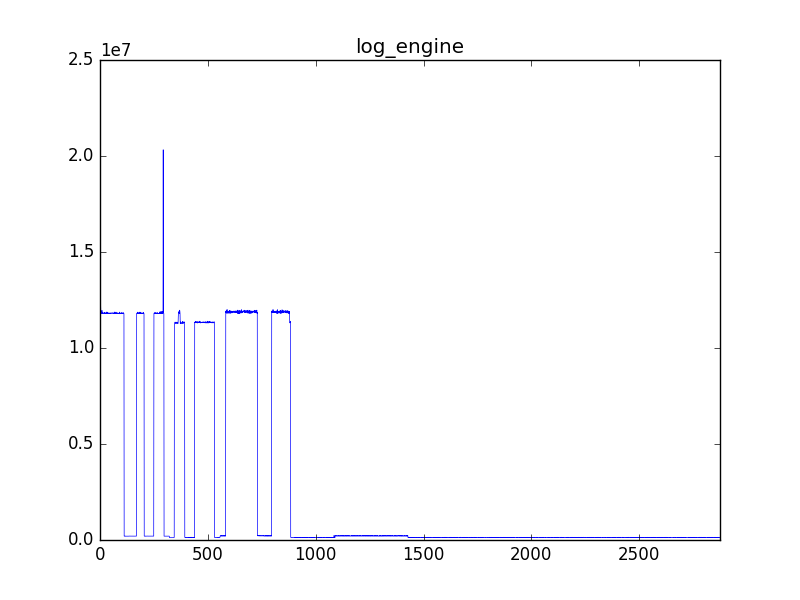
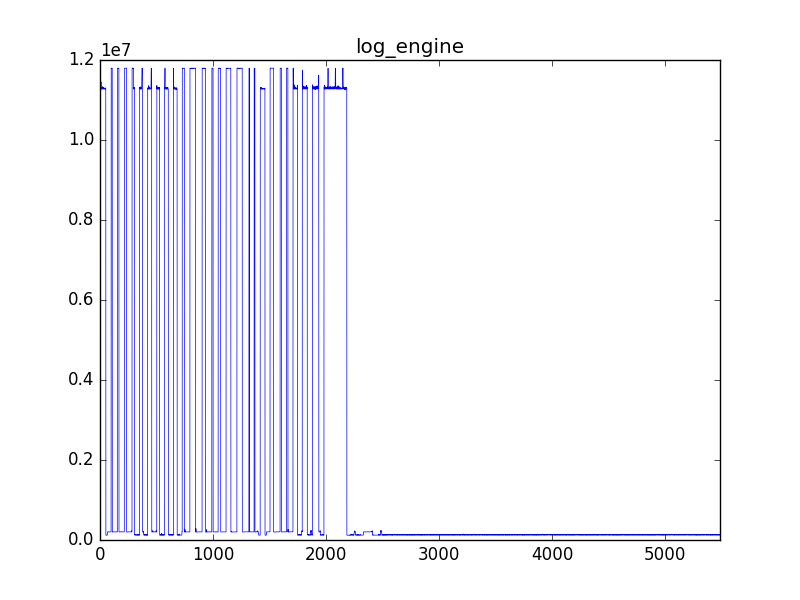
new pngs

Changed region(s): [[0.0938, 0.09, 0.9062, 0.93], [0.0938, 0.09, 0.125, 0.12]]

diff --git a/v3/doc/Exploit_Measurements.py b/v3/doc/Exploit_Measurements.py
@@ -1,9 +1,11 @@
 import numpy as np
 import os
 import matplotlib.pyplot as plt
+from scipy import stats
+
 
 def ns(ns):
-    return ns  / (1000 * 1000)
+    return ns / (1000 * 1000)
 
 # Takes an multidimensional list and plots it in one plot.
 # Output is the filename (relative path) of the saved plot (must end with .png)
@@ -18,16 +20,30 @@ def plot(values, output, title, x_label='', y_label=''):
     #plt.show()
     plt.close(fig)
 
+def sufficentTest(list):
+    #(phase, tEmax; tDmax)
+
+    n = len(list)
+    sum = 0.0
+    for vars in list:
+        minVar = min(vars[0], vars[2])
+        sum += (float(vars[1]) / minVar)
+
+    comp = n * (pow(2, (1/n)) - 1)
+    u = sum <= comp
+
+    print("sufficentTest for " + str(list))
+    print('sum {}, comp {}, u {}'.format(sum, comp, u))
+
+
 def main():
     files = list()
     for file in os.listdir('./'):
         if file.endswith('.csv'):
             name = file.split('.')[0]
             tmp = np.genfromtxt(file, delimiter=',')
-            if name == 'log_ultrasonic':
-                tmp = tmp[:-5]
-            else:
-                tmp = tmp[:-1]
+            tmp = tmp[:-1]
+            tmp = tmp[tmp < np.percentile(tmp, 90)]
 
             mean = np.mean(tmp)
             median = np.mean(tmp)
@@ -40,6 +56,22 @@ def main():
             print("median {} ns, {} ms".format(str(median), str(ns(median))))
             print("max {} ns, {} ms".format(str(maximum), str(ns(maximum))))
             plot(tmp, '../media/' + name + '.png', name)
+
+    # (phase, tEmax; tDmax)
+    tmp = list()
+    tmp.append([35, 22.882201, 35])
+    tmp.append([1, 0.110103, 1])
+
+    print("taskset 1")
+    sufficentTest(tmp)
+
+    print("taskset 3")
+    tmp = list()
+    defTimeout = 60
+    tmp.append([defTimeout, 23.935993, defTimeout])
+    tmp.append([defTimeout, 20.573112, defTimeout])
+    tmp.append([defTimeout, 0.320622, defTimeout])
+    sufficentTest(tmp)
 
 
 if __name__ == '__main__':
